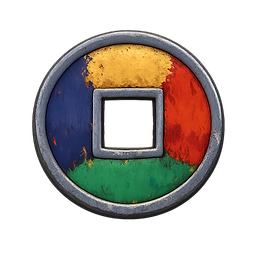
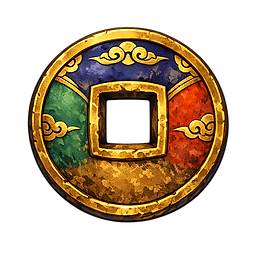
fix(art): 원화 교체로 깨진 UI 배치 복구 + 플레이키 테스트 수정
재생성한 원화의 비율이 달라지면서 UI가 깨진 것을 잡고, 되돌릴 것을 되돌린다.

비율 하드코딩 제거 (근본 수정)
- CSS aspect-ratio 에 원본 비율을 박아뒀더니 원화를 갈아끼우자 전부 깨졌다
  (제목 현판 2.74→2.54, 탭 2.07→1.50, 뒤로 1.07→0.92)
- 이미지를 일반 블록으로 두고 글자만 절대 배치해 비율은 이미지가 정하게 바꿨다.
  컴포넌트가 들고 있는 값은 안쪽 여백(inset)뿐이라 다시는 안 깨진다

배치 보정
- 제목 현판: 크림색 판은 세로 4~48% 구간뿐이고 아래 절반은 매듭 술인데, inset 이
  술 영역까지 내려가 글자가 판을 넘쳤다. 판 안으로 맞추고 글자를 먹색으로
- 탭: 비선택 원화가 선택본보다 화려해 대비가 뒤집혔다. 비선택을 눌러서 죽인다
- "사용 중" 목패가 상품 카드 안 패를 가려 카드 밖으로 옮겼다

되돌림 (통일보다 읽히는 쪽을 택함)
- icon-yeopjeon: 새 원화는 테두리가 은색이라 놋쇠 엽전으로 읽히지 않는다.
  24px 로 줄여 확인했고 이전 금테가 명확히 낫다

콜 도장 실동작 확인 — 연습 대국에서 울기 시 붉은 전각 도장이 판 위에 찍힌다

테스트
- 불법 액션 거부 테스트가 첫 game.choices 를 항상 자기 차례로 가정하고 있었다.
  상대 타패에 울기 기회(reaction)가 먼저 오면 실패하는 시드 의존 플레이키 테스트라,
  turn 이 올 때까지 넘기는 헬퍼로 고쳤다 (아트 변경과 무관한 기존 결함)

검증: 196 테스트 · typecheck/lint 클린 · E2E 통과 · 실브라우저 에러 0
원화 101장 7.0MB (원본 85MB 대비 92% 감소)

Claude-Session: https://claude.ai/code/session_013yAxasenrjZ3bgirq3GGW1

diff --git a/apps/client/src/components/art.tsx b/apps/client/src/components/art.tsx
@@ -4,14 +4,12 @@ import { memo, type CSSProperties, type ReactNode } from 'react';
  * 원화 UI 조각 (`public/art/*.webp`) 위에 글자를 얹는 공용 컴포넌트.
  *
  * 원화에는 기와 지붕·구름 장식이 붙어 있어 CSS로 늘리면 문양이 뭉개진다. 그래서
- * 9-slice 대신 **비율을 고정한 배경 이미지 + 안쪽 영역에 콘텐츠 배치** 방식을 쓴다.
- * 안쪽 비율(inset)은 이미지마다 달라 각 컴포넌트가 자기 값을 들고 있다.
+ * 9-slice 대신 **이미지를 그대로 두고 안쪽 영역(inset)에 글자만 얹는** 방식을 쓴다.
+ * 크기 비율은 이미지가 정하고, inset 만 컴포넌트가 들고 있다.
  */
 
 interface ArtSurfaceProps {
   src: string;
-  /** 이미지 원본 비율 (width / height) */
-  ratio: number;
   /** 콘텐츠가 앉는 안쪽 영역 (%) */
   inset: { top: string; bottom: string; left: string; right: string };
   children?: ReactNode;
@@ -20,9 +18,14 @@ interface ArtSurfaceProps {
   dim?: boolean;
 }
 
+/**
+ * 비율은 **이미지가 스스로 정한다.**
+ * 처음엔 `aspect-ratio`에 원본 비율을 하드코딩했는데, 원화를 갈아끼우자 전부 깨졌다
+ * (제목 현판 2.74→2.54, 탭 2.07→1.50). 이미지를 일반 블록으로 두고 글자만 그 위에
+ * 절대 배치하면 비율이 자동으로 따라와 다시는 안 깨진다.
+ */
 const Surface = memo(function Surface({
   src,
-  ratio,
   inset,
   children,
   className = '',
@@ -30,13 +33,13 @@ const Surface = memo(function Surface({
   dim = false,
 }: ArtSurfaceProps) {
   return (
-    <span className={`relative block ${className}`} style={{ aspectRatio: ratio, ...style }}>
+    <span className={`relative block ${className}`} style={style}>
       <img
         src={src}
         alt=""
         aria-hidden="true"
-        className="absolute inset-0 h-full w-full object-contain"
-        style={{ filter: dim ? 'saturate(0.45) brightness(0.7)' : undefined }}
+        className="block h-auto w-full"
+        style={{ filter: dim ? 'saturate(0.5) brightness(0.62)' : undefined }}
       />
       <span
         className="absolute flex items-center justify-center"
@@ -71,8 +74,7 @@ export function ArtCta({
     >
       <Surface
         src="/art/btn-cta.webp"
-        ratio={483 / 110}
-        inset={{ top: '14%', bottom: '26%', left: '20%', right: '20%' }}
+        inset={{ top: '12%', bottom: '30%', left: '18%', right: '18%' }}
         className="w-full transition group-hover:brightness-110"
       >
         <span
@@ -108,8 +110,7 @@ export function ArtOption({
     >
       <Surface
         src="/art/btn-option-off.webp"
-        ratio={301 / 120}
-        inset={{ top: '10%', bottom: '34%', left: '12%', right: '12%' }}
+        inset={{ top: '12%', bottom: '32%', left: '12%', right: '12%' }}
         dim={!active}
         className="w-full transition group-hover:brightness-110"
       >
@@ -136,8 +137,7 @@ export function ArtBack({ onClick, label = '뒤로' }: { onClick: () => void; la
     >
       <Surface
         src="/art/btn-back.webp"
-        ratio={181 / 169}
-        inset={{ top: '22%', bottom: '30%', left: '18%', right: '18%' }}
+        inset={{ top: '28%', bottom: '26%', left: '16%', right: '16%' }}
         className="w-full transition group-hover:brightness-110"
       >
         <span className="text-sm font-bold text-ink" style={{ fontFamily: 'var(--font-serif-kr)' }}>
@@ -154,15 +154,15 @@ export function ArtBack({ onClick, label = '뒤로' }: { onClick: () => void; la
 export function ArtTitle({ children, className = '' }: { children: ReactNode; className?: string }) {
   return (
     <Surface
+      // 크림색 판은 세로 4~48% 구간뿐이고 아래 절반은 매듭 술이다
       src="/art/plaque-title.webp"
-      ratio={602 / 220}
-      inset={{ top: '14%', bottom: '30%', left: '12%', right: '12%' }}
+      inset={{ top: '4%', bottom: '54%', left: '8%', right: '8%' }}
       className={className}
       style={{ filter: 'drop-shadow(0 6px 14px rgba(0,0,0,0.5))' }}
     >
       <span
-        className="whitespace-nowrap text-[clamp(1.1rem,2.4vw,1.8rem)] font-black tracking-[0.2em] text-hanji"
-        style={{ fontFamily: 'var(--font-serif-kr)', textShadow: '0 2px 6px rgba(0,0,0,0.8)' }}
+        className="whitespace-nowrap text-[clamp(0.95rem,2vw,1.6rem)] font-black tracking-[0.12em] text-ink"
+        style={{ fontFamily: 'var(--font-serif-kr)', textShadow: '0 1px 2px rgba(255,250,235,0.6)' }}
       >
         {children}
       </span>
@@ -170,7 +170,10 @@ export function ArtTitle({ children, className = '' }: { children: ReactNode; cl
   );
 }
 
-/** 탭 (선택/비선택 원화가 따로 있다) */
+/**
+ * 탭 (선택/비선택 원화가 따로 있다).
+ * 비선택 원화가 선택본보다 오히려 화려해 대비가 뒤집히므로, 비선택을 눌러서 죽인다.
+ */
 export function ArtTab({
   children,
   active,
@@ -189,8 +192,8 @@ export function ArtTab({
     >
       <Surface
         src={active ? '/art/tab-on.webp' : '/art/tab-off.webp'}
-        ratio={active ? 228 / 110 : 266 / 110}
-        inset={{ top: '18%', bottom: '18%', left: '10%', right: '10%' }}
+        inset={{ top: '20%', bottom: '22%', left: '10%', right: '10%' }}
+        dim={!active}
         className="w-full transition group-hover:brightness-110"
       >
         <span

diff --git a/apps/server/test/integration.test.ts b/apps/server/test/integration.test.ts
@@ -92,6 +92,30 @@ function waitRoomState(
   });
 }
 
+/** 조건을 만족하는 game.choices 가 올 때까지 대기 (앞선 선택지는 패스로 넘긴다) */
+function waitChoices(
+  socket: ClientSocket,
+  predicate: (c: ChoicesView) => boolean,
+  timeoutMs = 30000,
+): Promise<ChoicesView> {
+  return new Promise((resolve, reject) => {
+    const timer = setTimeout(() => {
+      socket.off('game.choices', handler);
+      reject(new Error('game.choices 조건 대기 초과'));
+    }, timeoutMs);
+    const handler = (c: ChoicesView): void => {
+      if (predicate(c)) {
+        clearTimeout(timer);
+        socket.off('game.choices', handler);
+        resolve(c);
+        return;
+      }
+      if (c.kind === 'reaction') socket.emit('game.action', { type: 'pass' });
+    };
+    socket.on('game.choices', handler);
+  });
+}
+
 function autoAll(socket: ClientSocket): void {
   socket.emit('settings.auto', { autoWin: true, autoSkipCalls: true, autoTsumogiri: true });
 }
@@ -180,9 +204,10 @@ describe('불법 액션 거부 (§8.2)', () => {
     await started;
     const deal = await dealt;
 
-    // 내 차례가 올 때까지 대기
-    const choices = await once<ChoicesView>(socket, 'game.choices', 30000);
-    expect(choices.kind).toBe('turn');
+    // 내 차례가 올 때까지 대기.
+    // 첫 game.choices 가 항상 자기 차례인 것은 아니다 — 상대 타패에 울기 기회(reaction)가
+    // 먼저 올 수 있어, 시드에 따라 갈리는 플레이키 테스트였다. turn 이 올 때까지 넘긴다.
+    const choices = await waitChoices(socket, (c) => c.kind === 'turn');
     const legal = (choices as Extract<ChoicesView, { kind: 'turn' }>).discards;
 
     // 손에 없는 패 → 거부

diff --git a/apps/client/src/components/Plaque.tsx b/apps/client/src/components/Plaque.tsx
@@ -56,14 +56,14 @@ export const Plaque = memo(function Plaque({
       whileHover={disabled ? undefined : { scale: 1.035, y: -2 }}
       whileTap={disabled ? undefined : { scale: 0.985 }}
       className="relative block w-full disabled:opacity-45"
-      style={{ aspectRatio: '900 / 430' }}
       aria-label={label}
     >
+      {/* 비율은 이미지가 정한다 — 원화를 갈아끼워도 안 깨지게 */}
       <img
         src={`/art/plaque-menu-${id}.webp`}
         alt=""
         aria-hidden="true"
-        className="absolute inset-0 h-full w-full object-contain"
+        className="block h-auto w-full"
         style={{ filter: 'drop-shadow(0 8px 18px rgba(0,0,0,0.5))' }}
       />
       <span

diff --git a/apps/client/src/screens/Shop.tsx b/apps/client/src/screens/Shop.tsx
@@ -108,7 +108,7 @@ function ItemCard({ item }: { item: ShopItem }) {
           src="/art/tag-inuse.webp"
           alt=""
           aria-hidden="true"
-          className="pointer-events-none absolute -right-1 -top-3 z-10 w-9 drop-shadow-[0_3px_6px_rgba(0,0,0,0.6)]"
+          className="pointer-events-none absolute -right-2 -top-4 z-10 w-7 drop-shadow-[0_3px_6px_rgba(0,0,0,0.6)]"
         />
       )}
       <Preview item={item} />

diff --git a/ASSUMPTIONS.md b/ASSUMPTIONS.md
@@ -68,3 +68,6 @@
 - [Phase 4 후속] 원화 UI 조각은 9-slice로 늘리지 않는다. 기와 지붕·구름 장식이 붙어 있어 늘리면 문양이 뭉개진다. 대신 비율을 고정하고 안쪽 영역(inset)에 콘텐츠를 얹는다 — `components/art.tsx` 의 공통 방식이다.
 - [Phase 4 후속] 로비 캐릭터는 클릭으로 4인을 순환한다. 판정·매칭에 영향이 없는 순수 표시 요소이며 서버에 저장하지 않는다 (§6.1 "코스메틱은 승패에 영향 없음"과 같은 원칙).
 - [Phase 4 후속] 로비 배경은 18~06시에 야경으로 자동 전환한다.
+- [Phase 4 후속] 원화 UI 조각의 크기 비율을 CSS `aspect-ratio` 에 하드코딩했더니, 재생성으로 원화를 갈아끼우자 전부 깨졌다(제목 현판 2.74→2.54, 탭 2.07→1.50). 이미지를 일반 블록으로 두고 글자만 그 위에 절대 배치해 **비율은 이미지가 정하도록** 바꿨다. 컴포넌트가 들고 있는 값은 안쪽 여백(inset)뿐이다.
+- [Phase 4 후속] 통일 재생성이 전부 개선인 것은 아니다. 아이콘·프레임·버튼·캐릭터는 광택이 빠지고 서로 붙어 개선됐지만, 현판 4종은 마구리·매듭·초롱·잉어 장식이 뭉개졌고 도라 슬롯판은 슬롯이 흰색이 되어 흰 마작패와 구분되지 않았으며 엽전 아이콘은 테두리가 은색이 되어 놋쇠 엽전으로 읽히지 않았다. 이 6장은 이전 원화로 되돌렸다. 재생성 전 원본을 백업해 두는 것이 전제다.
+- [Phase 4 후속] 캐릭터는 품질을 high→medium 으로 낮추면서 넷이 서로 붙는 대신 개별 완성도(옷 문양·얼굴)를 잃었다. "따로 논다"가 문제였으므로 통일을 택했지만 맞바꾼 것이 있다.
